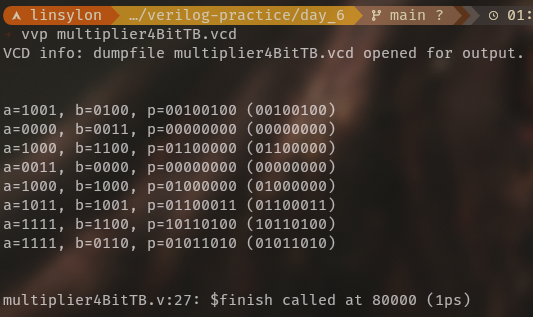
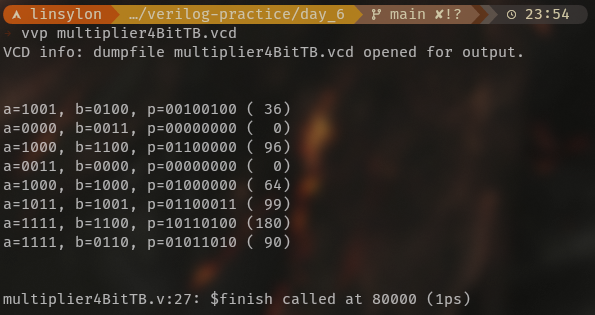
Day 7 - 4-bit Divider; Added decimal output to Day 6 (4-bit Multiplier) TB; Updated README.md

diff --git a/README.md b/README.md
@@ -8,7 +8,7 @@ I will also be adding on top of it.
    - [ICARUS Verilog](https://github.com/steveicarus/iverilog "iverilog's Github repo") - code compilation <br>
    - [GTKWave](https://github.com/gtkwave/gtkwave "GTKWave's Github repo") - waveform simulation <br>
 
-#### Day 1 to Day 6 - Basics
+#### Day 1 to Day 7 - Basics
 Topics covered: <br>
     -> [Day 1](https://github.com/skaustubh04/verilog-practice/tree/main/day_1 "Link to dir") - Behavioural Modelling <br>
     -> [Day 2](https://github.com/skaustubh04/verilog-practice/tree/main/day_2 "Link to dir") - Parity Generator <br>
@@ -16,4 +16,5 @@ Topics covered: <br>
     -> [Day 4](https://github.com/skaustubh04/verilog-practice/tree/main/day_4 "Link to dir") - CLA <br>
     -> [Day 5](https://github.com/skaustubh04/verilog-practice/tree/main/day_5 "Link to dir") - CSA (4-bit & 16-bit) (16-bit is backlog) <br>
     -> [Day 6](https://github.com/skaustubh04/verilog-practice/tree/main/day_6 "Link to dir") - 4-bit Multiplier <br>
+    -> [Day 7](https://github.com/skaustubh04/verilog-practice/tree/main/day_7 "Link to dir") - 4-bit Divider <br>
     _... (the next day will also be in `Basics` section)._